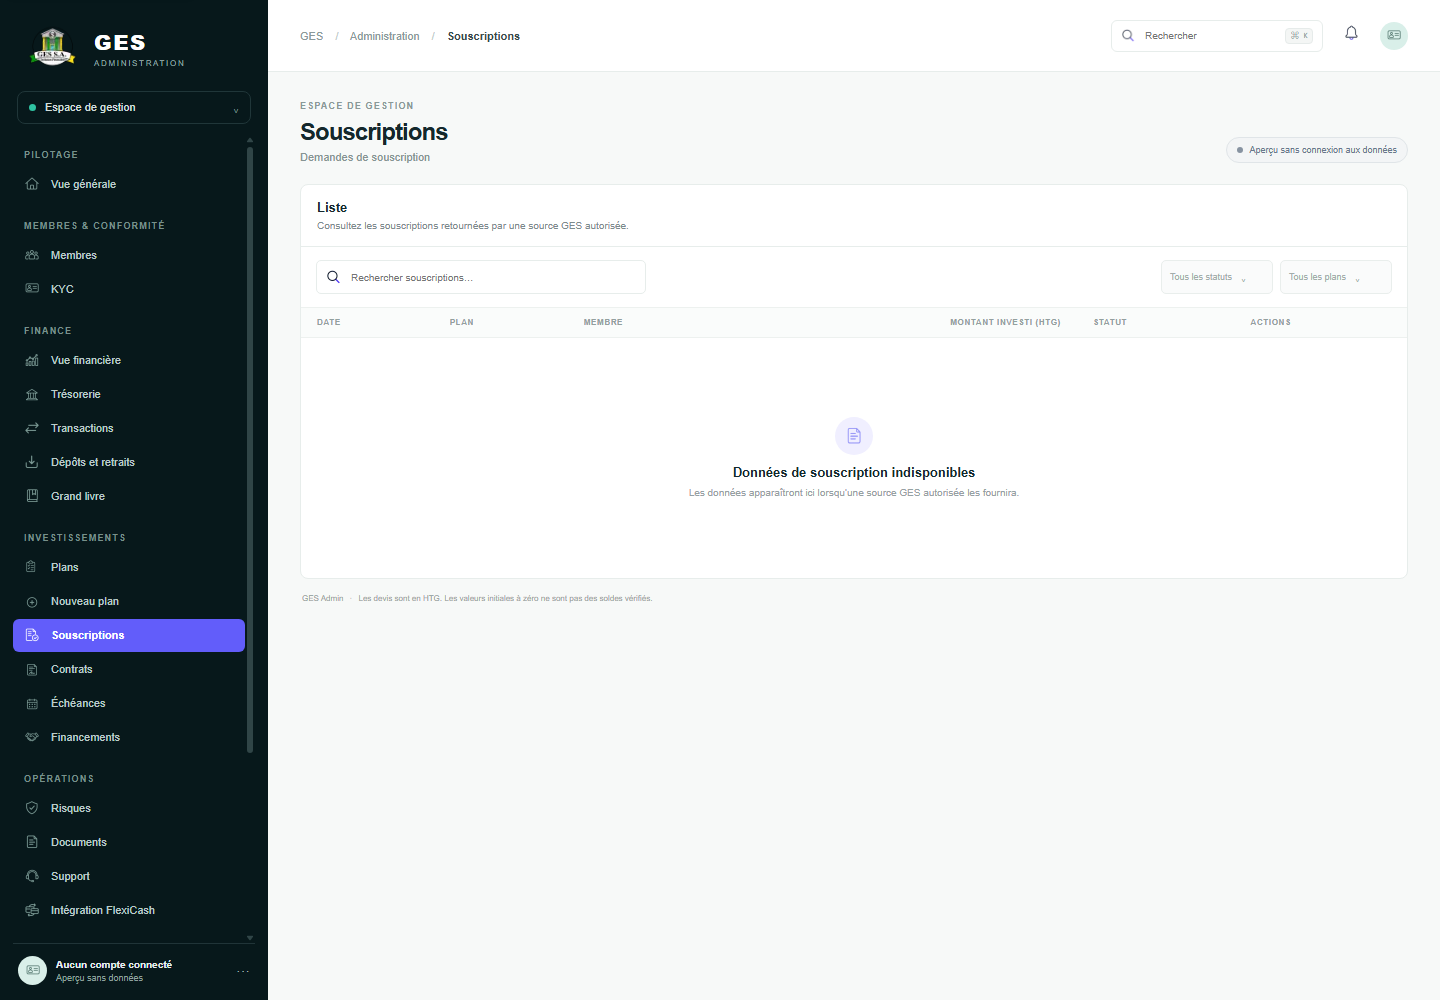
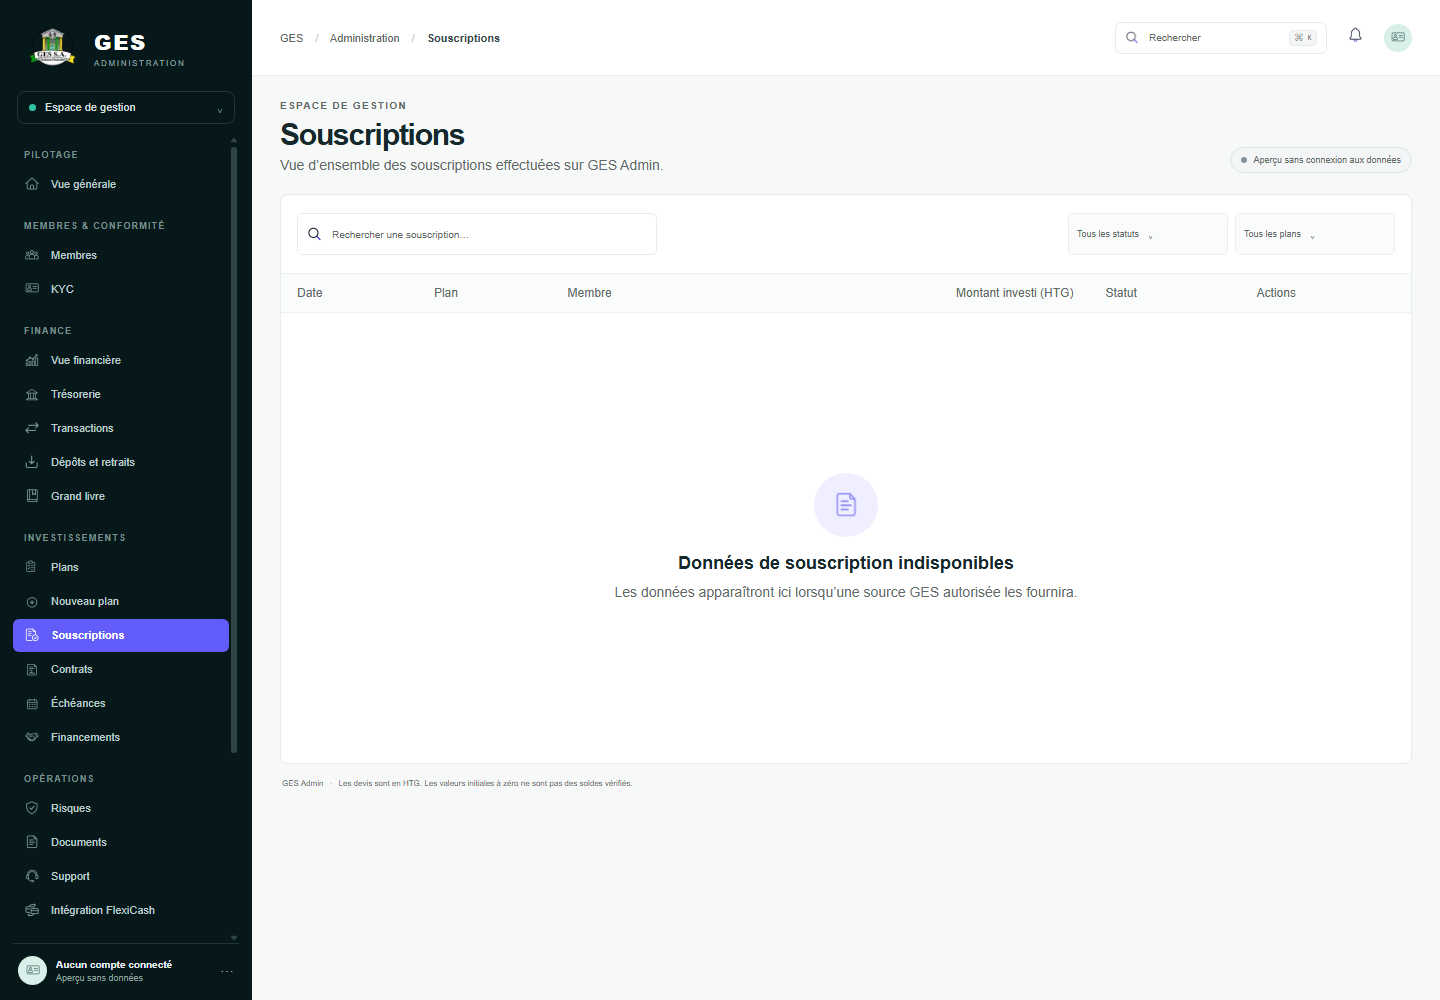
Align subscription list with MF-16

diff --git a/components/admin-shell.tsx b/components/admin-shell.tsx
@@ -25,7 +25,7 @@ const pages: Record<string, { title: string; subtitle: string }> = {
   membres: { title: "Membres", subtitle: "Consultez et gérez les comptes membres." }, kyc: { title: "Conformité KYC", subtitle: "Vérification des dossiers" },
   "vue-financiere": { title: "Vue financière générale", subtitle: "Aperçu de la position financière de GES Admin en HTG et USD." }, tresorerie: { title: "Trésorerie", subtitle: "Positions de trésorerie" }, transactions: { title: "Transactions", subtitle: "Consultez et gérez l’ensemble des transactions." },
   "depots-retraits": { title: "Dépôts et retraits", subtitle: "Suivi des mouvements entrants et sortants" }, "grand-livre": { title: "Grand livre et rapprochement", subtitle: "Consultation du grand livre comptable et rapprochement des soldes." }, plans: { title: "Catalogue des plans d’investissement", subtitle: "Vue d’ensemble des plans d’investissement autorisés sur GES Admin." },
-  souscriptions: { title: "Souscriptions", subtitle: "Demandes de souscription" }, contrats: { title: "Contrats d’investissement", subtitle: "Registre des contrats d’investissement GES." }, echeances: { title: "Échéances", subtitle: "Calendrier des échéances" }, financements: { title: "Financements", subtitle: "Suivi des financements" }, "plans/nouveau": { title: "Nouveau plan d’investissement", subtitle: "Créer un nouveau plan d’investissement (brouillon)." },
+  souscriptions: { title: "Souscriptions", subtitle: "Vue d’ensemble des souscriptions effectuées sur GES Admin." }, contrats: { title: "Contrats d’investissement", subtitle: "Registre des contrats d’investissement GES." }, echeances: { title: "Échéances", subtitle: "Calendrier des échéances" }, financements: { title: "Financements", subtitle: "Suivi des financements" }, "plans/nouveau": { title: "Nouveau plan d’investissement", subtitle: "Créer un nouveau plan d’investissement (brouillon)." },
   risques: { title: "Risques", subtitle: "Suivi des alertes et contrôles" }, documents: { title: "Documents", subtitle: "Bibliothèque documentaire" }, support: { title: "Support", subtitle: "Demandes d’assistance" }, rapports: { title: "Rapports", subtitle: "Rapports de gestion" }, equipe: { title: "Équipe", subtitle: "Accès et rôles de l’équipe" }, audit: { title: "Audit", subtitle: "Journal des actions administratives" }, parametres: { title: "Paramètres", subtitle: "Configuration de l’espace" }, notifications: { title: "Notifications", subtitle: "Centre de notifications administratives" }, "roles-permissions": { title: "Rôles et permissions", subtitle: "Les permissions effectives sont contrôlées côté serveur" }, "integrations-flexicash": { title: "Intégration FlexiCash", subtitle: "Les espaces GES et FlexiCash restent séparés" },
 };
 

diff --git a/components/module-workspace.tsx b/components/module-workspace.tsx
@@ -18,7 +18,7 @@ const pages: Record<string, ModulePage> = {
   transactions: { description: "Consultez les transactions retournées par une source GES autorisée.", searchPlaceholder: "Rechercher une transaction…", filters: ["Tous les types", "Tous les statuts", "Sélectionner une période"], columns: ["Date", "Référence", "Membre", "Type", "Montant (HTG)", "Statut", "Actions"], empty: "Données de transaction indisponibles" },
   "depots-retraits": { description: "Suivez les dépôts et retraits liés aux opérations GES.", filters: ["Tous les statuts", "Période"], tabs: ["Toutes les opérations", "Dépôts", "Retraits"], columns: ["DATE", "RÉFÉRENCE", "MEMBRE", "TYPE", "MONTANT (HTG)", "STATUT"], empty: "Données opérationnelles indisponibles" },
   plans: { description: "Catalogue des plans d’investissement autorisés sur GES Admin.", filters: ["Tous les statuts", "Trier par"], columns: ["PLAN", "DEVISE", "RENDEMENT", "DURÉE", "STATUT", "ACTIONS"], empty: "Données des plans indisponibles" },
-  souscriptions: { description: "Consultez les souscriptions retournées par une source GES autorisée.", filters: ["Tous les statuts", "Tous les plans"], columns: ["DATE", "PLAN", "MEMBRE", "MONTANT INVESTI (HTG)", "STATUT", "ACTIONS"], empty: "Données de souscription indisponibles" },
+  souscriptions: { description: "Consultez les souscriptions retournées par une source GES autorisée.", searchPlaceholder: "Rechercher une souscription…", filters: ["Tous les statuts", "Tous les plans"], columns: ["Date", "Plan", "Membre", "Montant investi (HTG)", "Statut", "Actions"], empty: "Données de souscription indisponibles" },
   contrats: { description: "Registre des contrats d’investissement retournés par une source GES autorisée.", filters: ["Tous les statuts", "Tous les plans", "Période"], columns: ["CONTRAT", "MEMBRE", "PLAN", "PRINCIPAL (HTG)", "DATE DE DÉBUT", "ÉCHÉANCE", "STATUT", "DOCUMENTS"], empty: "Données contractuelles indisponibles" },
   financements: { description: "Dossiers de financement relevant de GES.", filters: ["Tous les statuts", "Tous les types"], columns: ["PROJET OU BÉNÉFICIAIRE", "MONTANT PROPOSÉ (HTG)", "ÉVALUATION DU RISQUE", "DOCUMENTS", "STATUT", "ÉTAPES"], empty: "Données de financement indisponibles" },
   risques: { description: "Surveillez les risques et alertes disponibles pour GES.", filters: ["Toutes les catégories", "Toutes les sévérités", "Tous les statuts"], columns: ["SÉVÉRITÉ", "CATÉGORIE", "ENTITÉ GES", "ANALYSTE ASSIGNÉ", "STATUT", "ACTIONS"], empty: "Données de risque indisponibles" },

diff --git a/design/project-status.md b/design/project-status.md
@@ -49,3 +49,5 @@ MF-02 : le champ TOTP est limité à six chiffres et n’accepte que des chiffre
 
 
 Revue MF-14 (29 octobre 2026) : titre et sous-titre aligns sur la reference; titre de panneau redondant retire et filtre secondaire libelle Trier par. La creation reste accessible depuis la navigation. Captures admin-plans-1440x1000.png et admin-plans-390x844.png. Chrome confirme un catalogue sans plan fictif, sans debordement horizontal de page aux deux largeurs; la table garde son defilement horizontal interne sur mobile. Comparaison proposee, non verrouillee.
+
+Revue MF-16 (29 octobre 2026) : sous-titre, recherche et casse des colonnes rapproches de la reference. Les captures desktop/mobile montrent une liste sans souscription fictive; les montants sont identifies en HTG. Chrome confirme l'absence de debordement horizontal de page a 1440 px et 390 px. Comparaison MF-01 a MF-34 regeneree; MF-02 attend une session MFA reelle.

diff --git a/design/qa/README.md b/design/qa/README.md
@@ -145,3 +145,5 @@ Reverification MF-15 du 29 octobre : états desktop replié (1440 × 1100), ouve
 
 
 Revue MF-14 : les captures admin-plans-1440x1000.png et admin-plans-390x844.png couvrent le catalogue vide. Le filtre secondaire est Trier par, aucun plan fictif n'est affiche, et Chrome DevTools confirme l'absence de debordement de page aux deux largeurs. Sur 390 px, le tableau possede un defilement horizontal interne.
+
+Captures MF-16 : admin-souscriptions-1440x1000.png et admin-souscriptions-390x844.png. La liste reste vide tant qu'aucune source GES autorisee ne fournit les donnees; les montants sont libelles en HTG. Les neuf planches MF-01 a MF-34 ont ete regenerees apres les changements de MF-14/MF-16.
